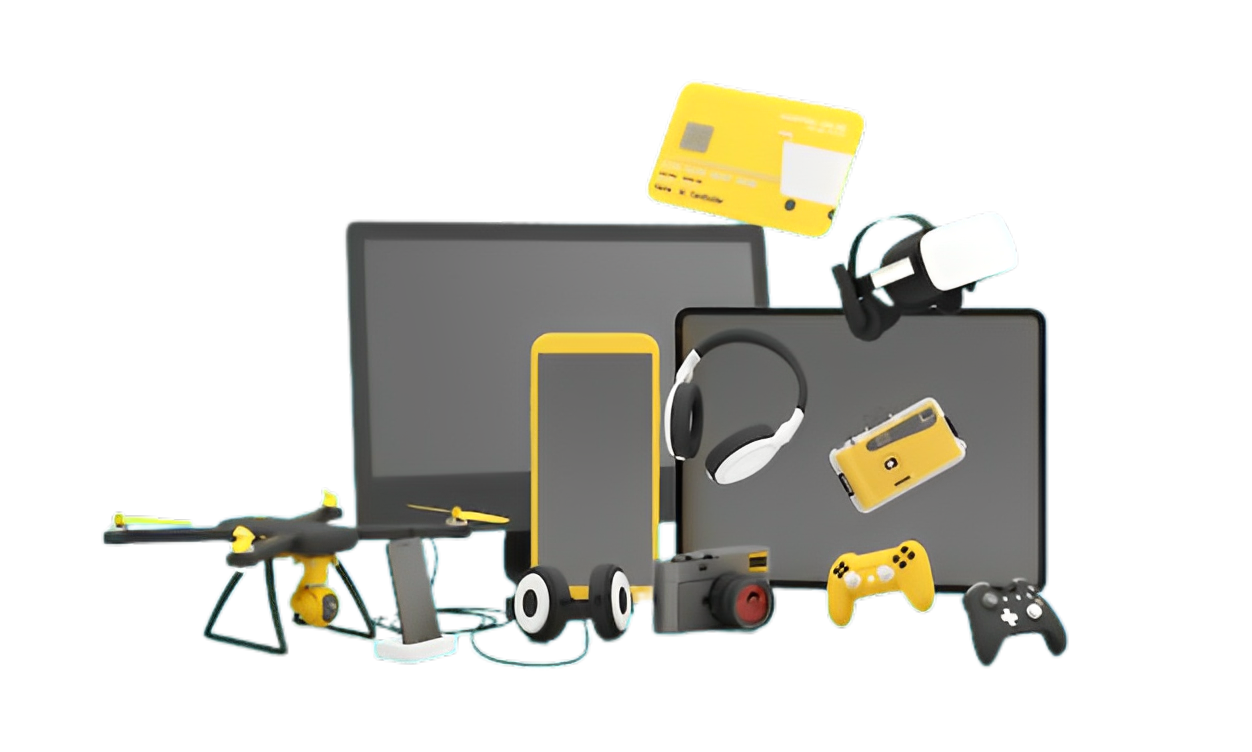
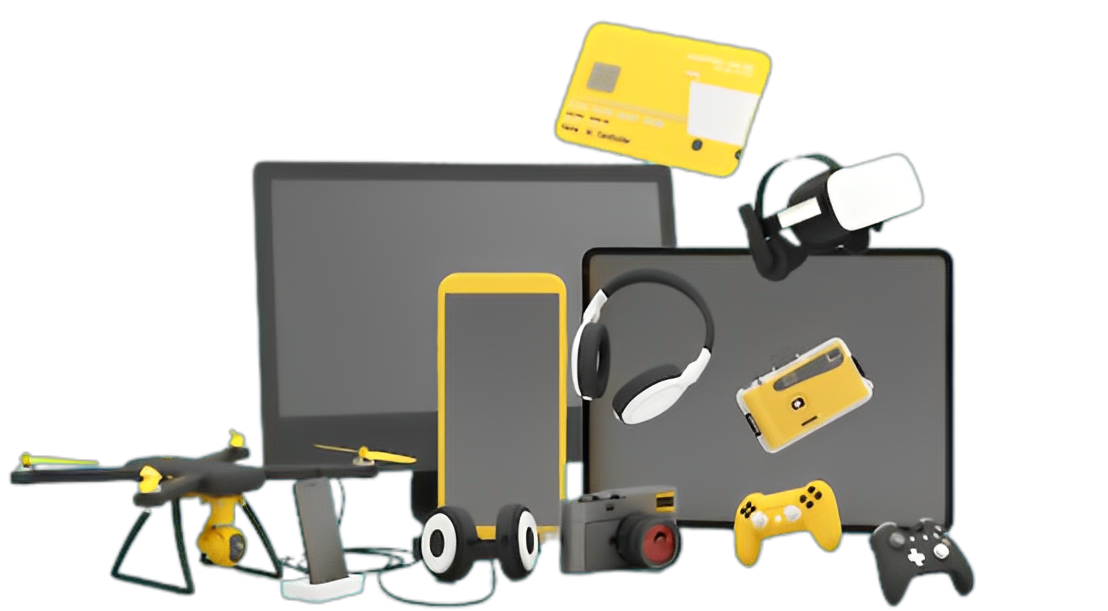
14.2

Changed region(s): [[0.0, 0.0311, 0.8899, 0.9951], [0.8285, 0.311, 0.8592, 0.3421]]

diff --git a/src/components/CategoryItem.jsx b/src/components/CategoryItem.jsx
@@ -1,10 +1,39 @@
 import styled from "styled-components";
 
-const Container = styled.div``;
-const Image = styled.div``;
-const Info = styled.div``;
-const Title = styled.div``;
-const Button = styled.div``;
+const Container = styled.div`
+flex:1;
+margin: 3px;
+height: 70vh;
+position: relative;
+`;
+const Image = styled.img`
+width:100%;
+height: 80%;
+object-fit: cover;
+`;
+const Info = styled.div`
+position: absolute;
+top: 0;
+left: 0;
+width: 100%;
+height: 100%;
+display: flex;
+flex-direction: column;
+align-items: center;
+justify-content: center;
+`;
+const Title = styled.h1`
+color:white;
+margin-bottom: 20px;
+`;
+const Button = styled.button`
+border:none;
+padding: 10px;
+background-color: white;
+color: gray;
+cursor: pointer;
+font-weight: 600;
+`;
 
 const CategoryItem = ({item}) => {
   return (

diff --git a/src/data.js b/src/data.js
@@ -3,8 +3,8 @@ import electronic from "./Elect.png"
 import clear from "./clear.png"
 import furniture from "./furniture2.png"
 import home_furniture from "./home_furniture.png"
-import laptop from "./Phone & laptop.png"
-import fashion from "./fashion.png"
+import laptop from "./laptop and mobile.jpg"
+import fashion from "./fashion2.jpg"
 
 
 export const sliderItems = [
@@ -49,14 +49,14 @@ export const categories = [
         title: "Fashion",
       },
       {
-        id: 2,
-        img: laptop,
-        title: "Mobiles & Tablets",
-      },
-      {
         id: 3,
         img: home_furniture,
         title: "Home and Furniture",
+      },
+      {
+        id: 2,
+        img: laptop,
+        title: "Mobiles & Tablets",
       },
 ];
 

diff --git a/src/components/Categories.jsx b/src/components/Categories.jsx
@@ -13,11 +13,7 @@ const Categories = () => {
   return (
     <Container> 
         {categories.map((item)=>(
-          // so i can map through my array and for each item i am gonna call my category item component
             <CategoryItem item={item} key={item.id}/>
-            //it is compulsory to give id so that the data can be differentiated easily
-            //so ass prop i will give my item
-            // so i can take this prop in categoryItem.jsx and can use it inside my container
         ))}
     </Container>
   )
